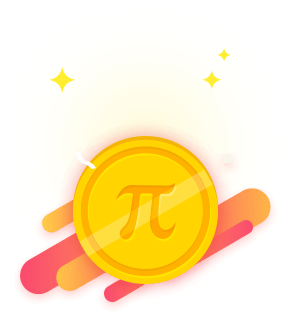
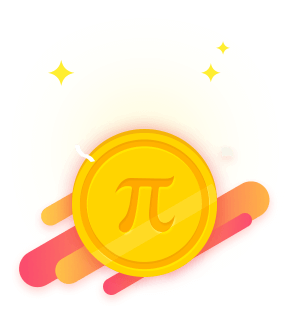
劳动节活动小修改

diff --git a/activity/cashRedPack20170417/sass/index.scss b/activity/cashRedPack20170417/sass/index.scss
@@ -77,13 +77,16 @@ $grayColor:#808080;
 
 // 星星
 .star{
+    position: absolute;
+    left: pxToRem(502px);
+    top: pxToRem(374px);
     display: inline-block;
     width: pxToRem(33px);
     height: pxToRem(33px);
     @extend .icon-index-star;
     &.little{
-        width: pxToRem(33px);
-        height: pxToRem(33px);
+        left: pxToRem(536px);
+        top: pxToRem(359px);
         transform: scale(0.8);
         -webkit-transform: scale(0.8);
 
@@ -326,10 +329,14 @@ $grayColor:#808080;
 .red-light{
     @include background("../images/index/turntable_light_red.png",622px,613px);
 }
+// 指针
 .turntable-finger{
     top:pxToRem(-30px);
     @include background("../images/index/won_light.png",194px,218px);
     pointer-events:none;
+    &.gray{
+        @include background("../images/index/won_gray.png",194px,218px);
+    }
     .finger-con{
         font-size:pxToRem(30px);
         margin-top:pxToRem(85px);

diff --git a/activity/cashRedPack20170417/js/util.js b/activity/cashRedPack20170417/js/util.js
@@ -142,7 +142,7 @@
             input_popup.on('click', '#close', function() {
                 hide(input_popup);
             })
-
+          
             function hide(target) {
                 target.removeClass("slideInUp").addClass("slideOutDown");
                 // enableScrolling();
@@ -151,6 +151,7 @@
 
         },
         showPrize: function(options) {
+            var that = this;
             var _options = {
                 "type": 0, // 0 -- 团币， 1 -- 投资红包 2 -- 现金红包
                 "num": 0 // 数量

diff --git a/activity/cashRedPack20170417/js/index.js b/activity/cashRedPack20170417/js/index.js
@@ -55,7 +55,7 @@
         $('#lottery-turntable').rotate({
             angle: 0,
             animateTo: angles + 1740,
-            duration: 8000,
+            duration: 5000,
             callback: function() {
                 var _num = 0;
                 var _type = 0;
@@ -119,6 +119,7 @@
                     "cb": function() {}
                 }]
             });
+            $(".turntable-finger").addClass("gray");
             return;
         }
         // if (!qmInvest) {
